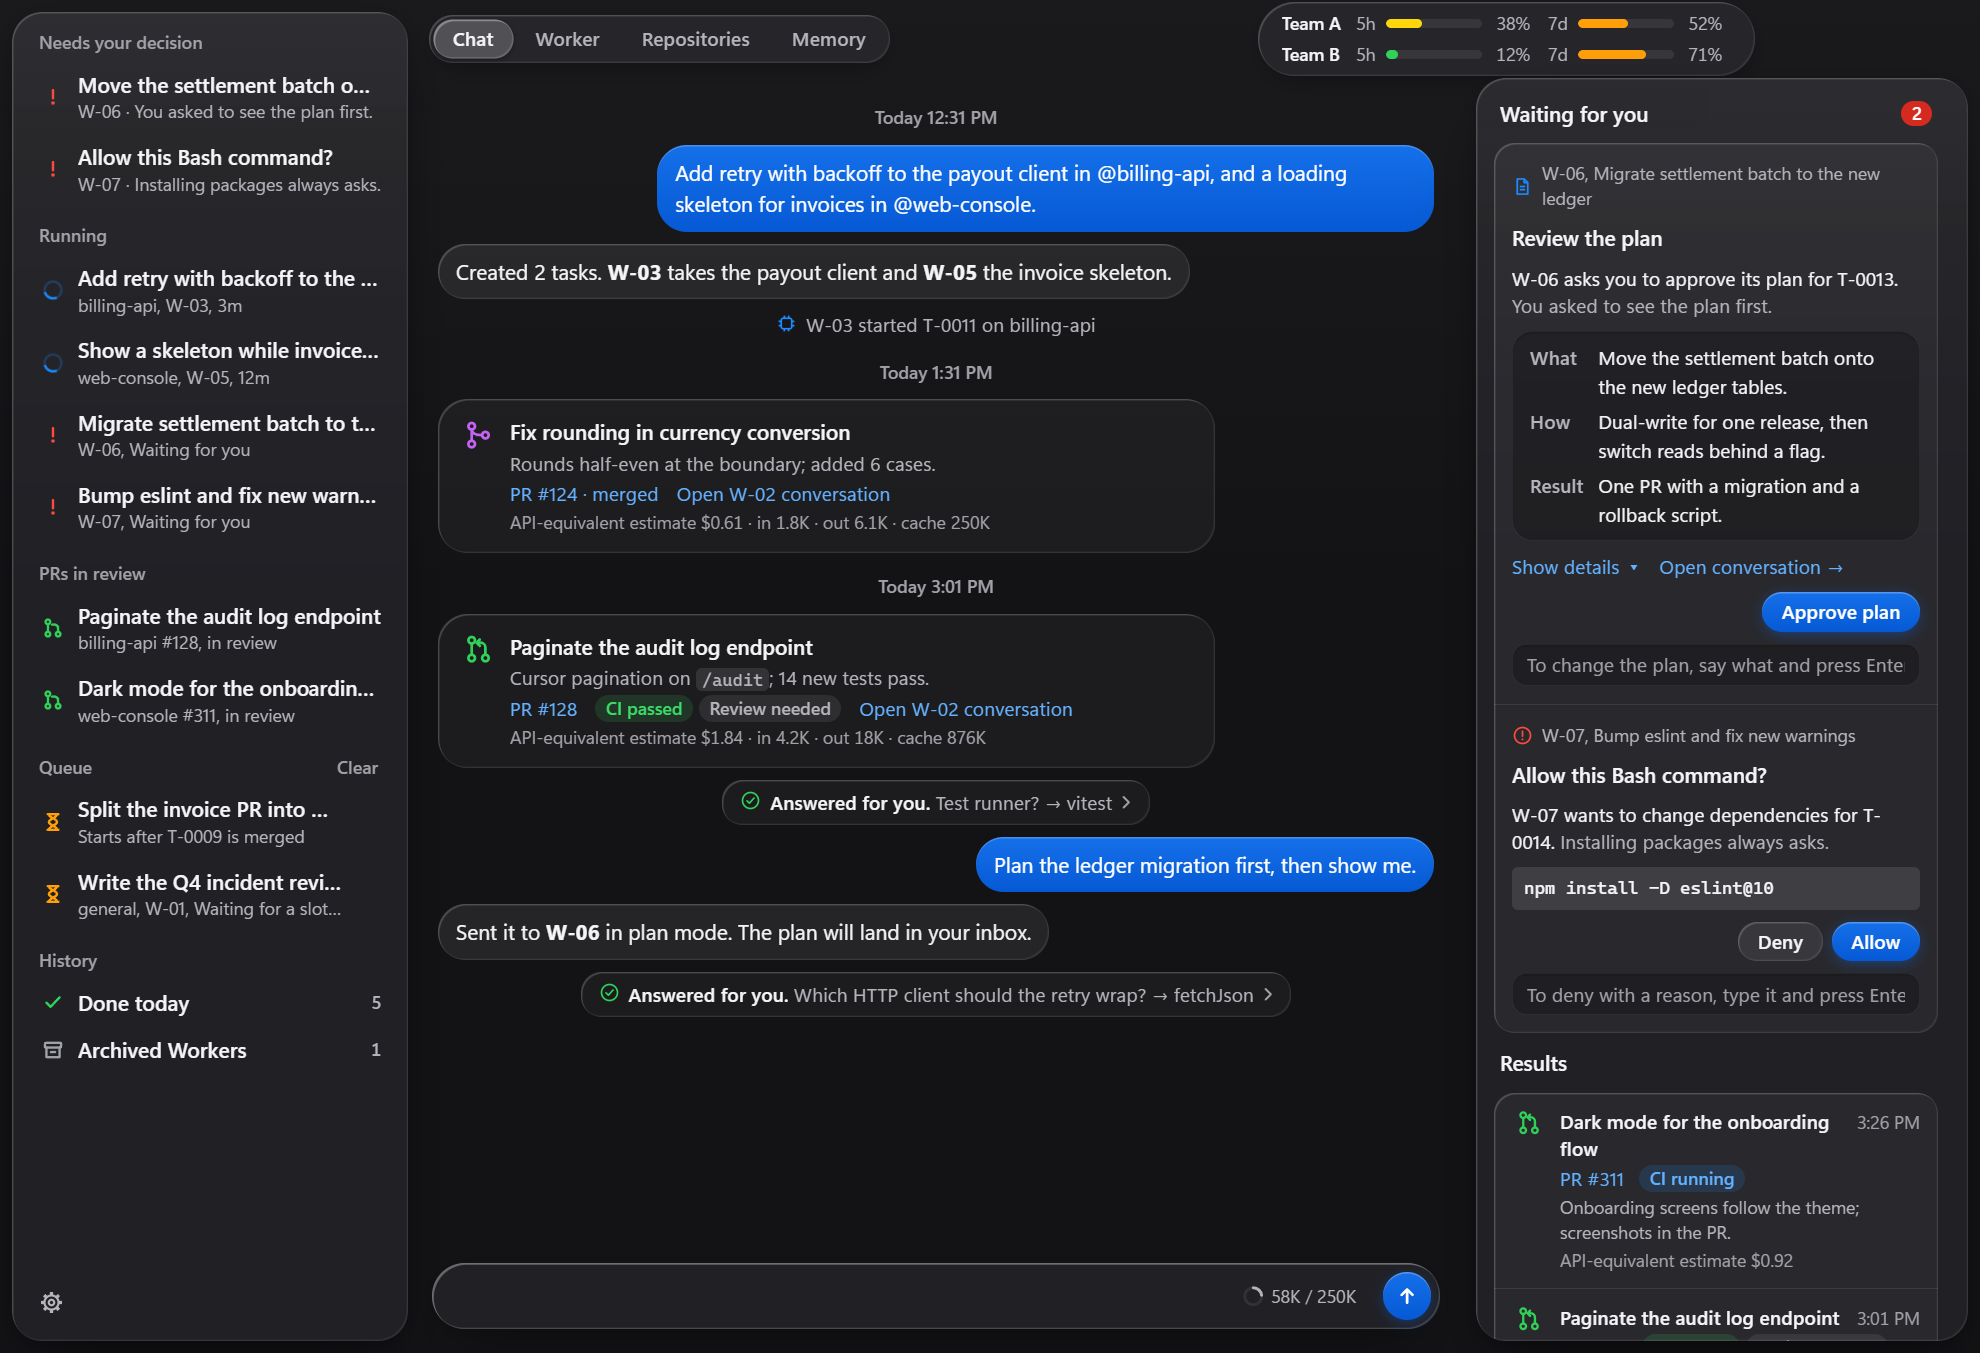
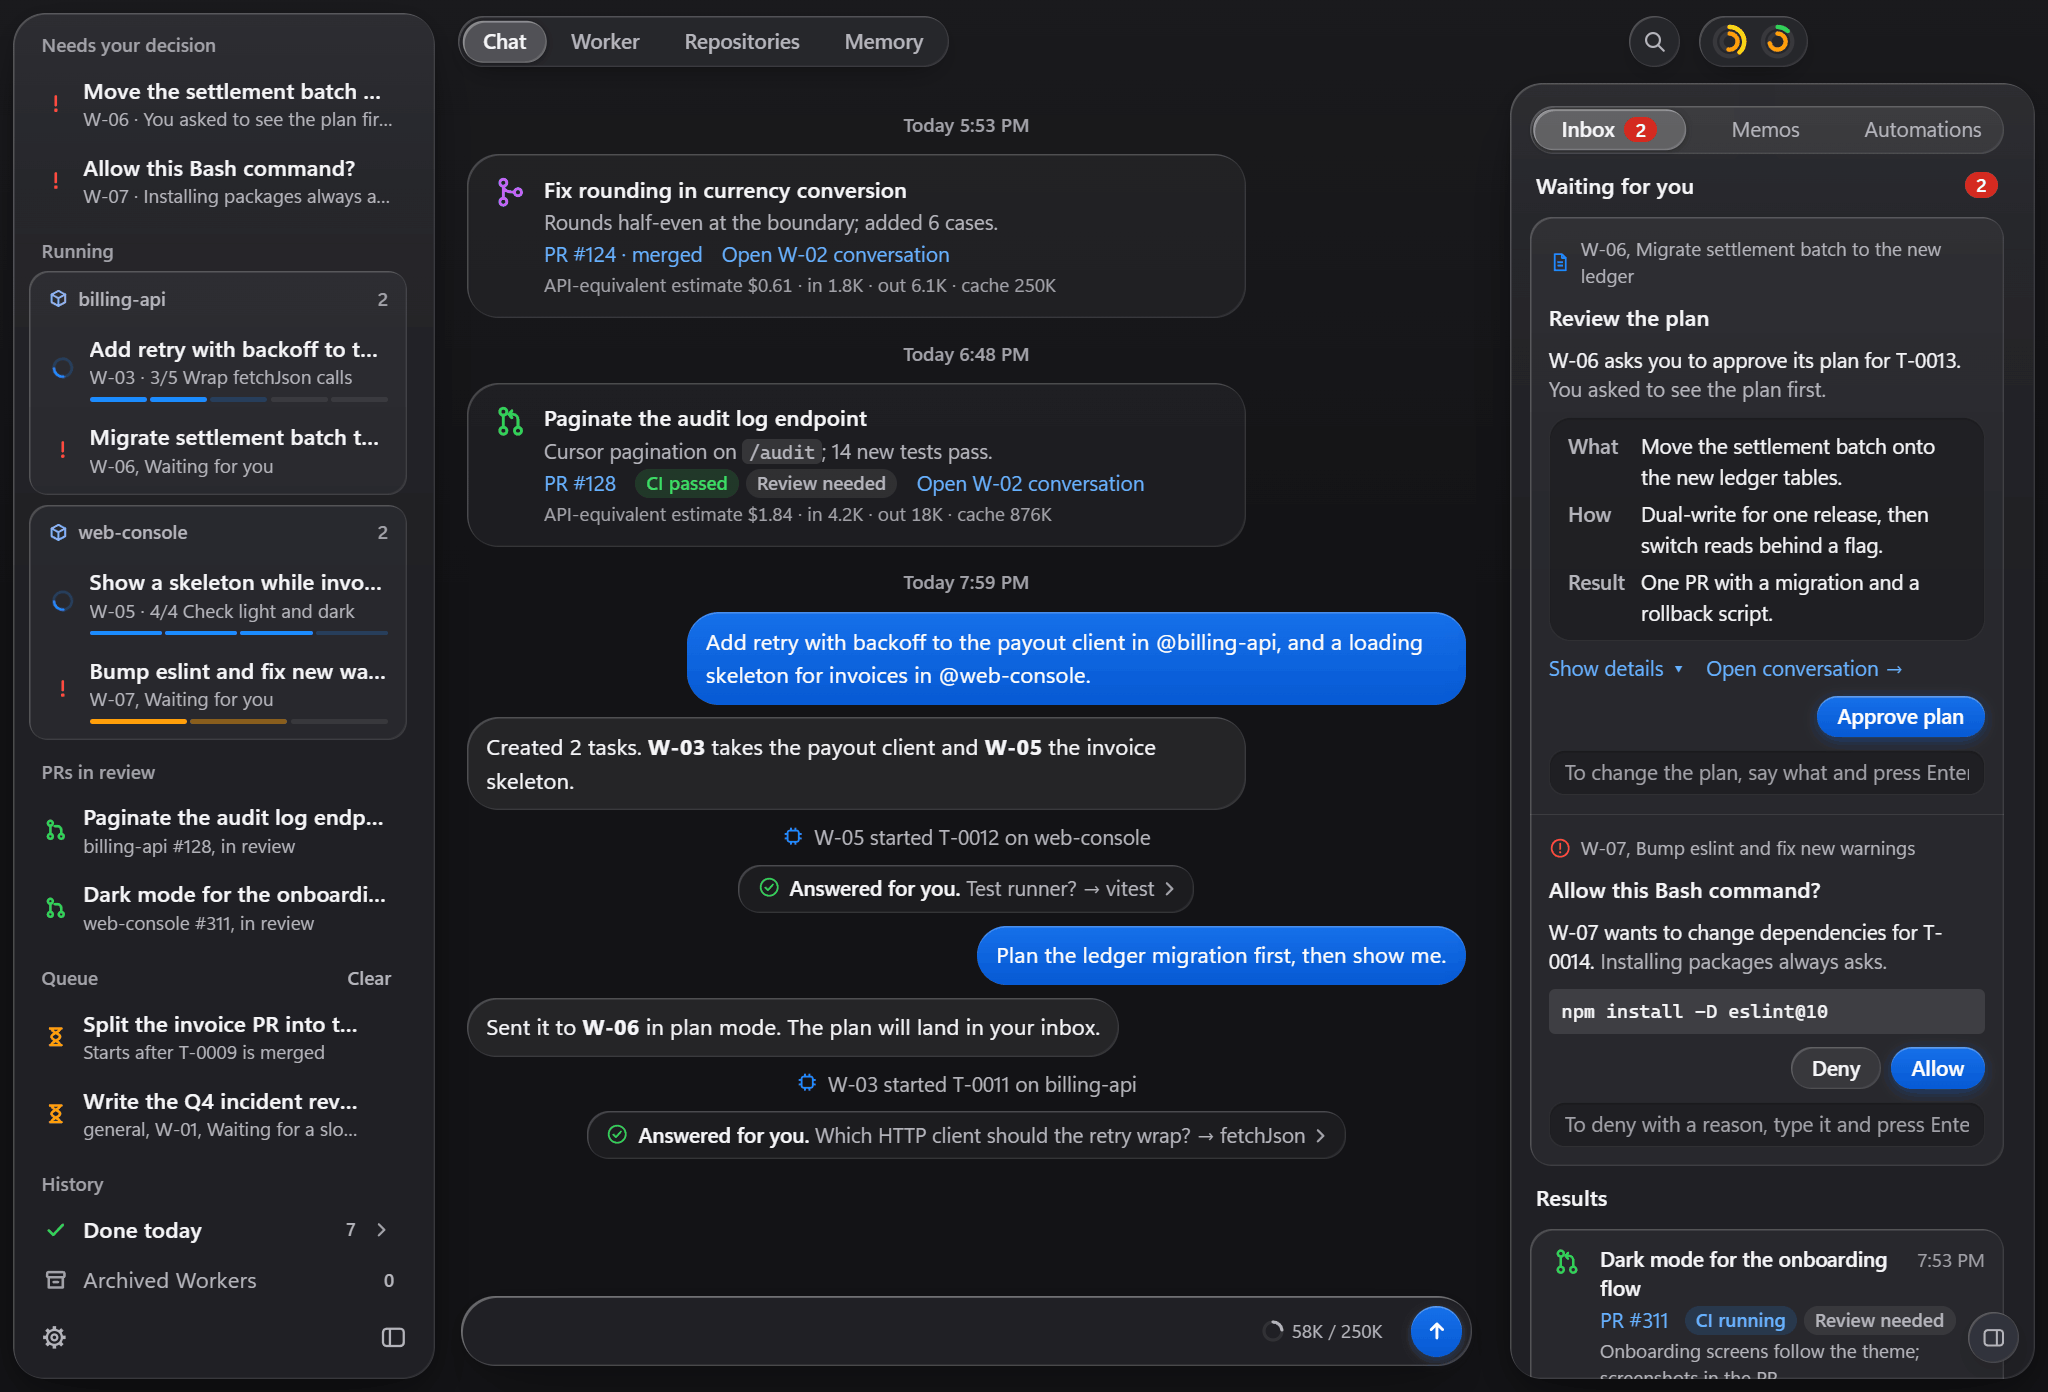
Refresh the README screenshot for 0.6.2

diff --git a/README.md b/README.md
@@ -2,9 +2,9 @@
 
 Tell a Dispatcher what needs doing in one window, and it hands the work to Worker agents. You see only the decisions that need you and the results. Built with Electron and the Claude Agent SDK; runs on Windows and macOS. The UI is in English by default, with Korean available in Settings.
 
-![Oh My Agent IDE main window: sidebar with decisions, running Workers, PRs in review and the queue; the Dispatcher chat with result cards and auto-answers; the decision inbox and results on the right](docs/images/main-screen.png)
+![Oh My Agent IDE main window: sidebar with decisions, running Workers grouped by repository with step progress, PRs in review and the queue; the Dispatcher chat with result cards and auto-answers; usage rings in the toolbar; the Inbox tab with a plan to approve, a command to allow and results on the right](docs/images/main-screen.png)
 
-The main window with sample data (taken at 0.2; the toolbar has since gained a search button, and the right side its Memos and Automations tabs): the sidebar lists what waits for you, running Workers, PRs in review and the queue; the chat holds the Dispatcher conversation and result cards; the right side holds decisions (a plan to approve, a command to allow) and results.
+The main window with sample data (taken at 0.6.2): the sidebar lists what waits for you, running Workers grouped by repository with their step progress, PRs in review and the queue; the chat holds the Dispatcher conversation and result cards; the toolbar has search and a usage ring per account (5-hour window outside, 7-day inside); the right side's Inbox tab holds decisions (a plan to approve, a command to allow) and results, next to the Memos and Automations tabs.
 
 Decisions made during implementation are in [docs/DECISIONS.md](docs/DECISIONS.md). The design system (an audit of the current UI, the v1 "Graphite Glass" spec and tokens, and a self-contained `design-system.html`) is in [docs/design-system/](docs/design-system/README.md); the app's styles are built on its tokens. What has to be checked by hand with real accounts, because no automated test can reach it, is in [docs/REAL-USE-CHECKLIST.md](docs/REAL-USE-CHECKLIST.md).
 
